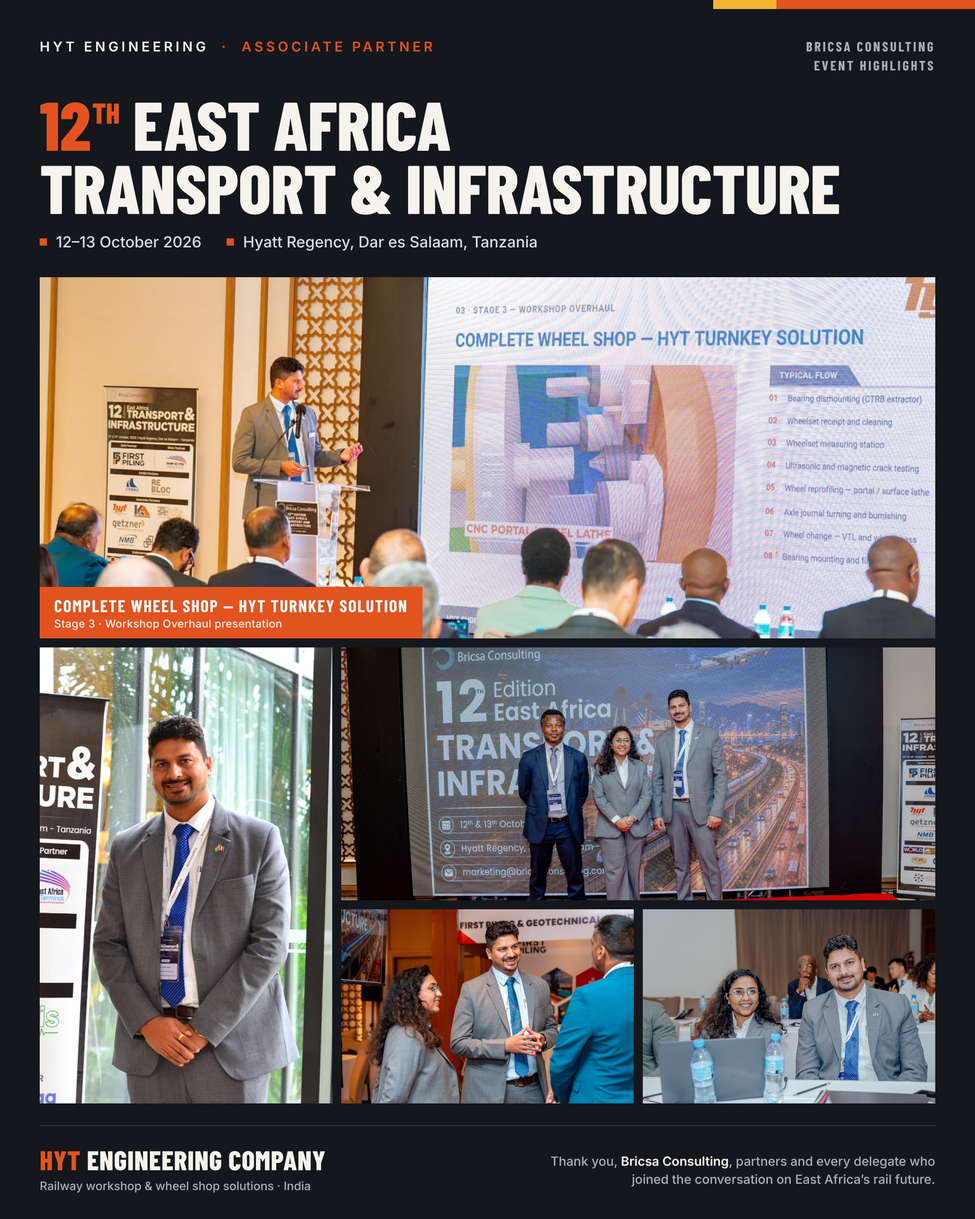
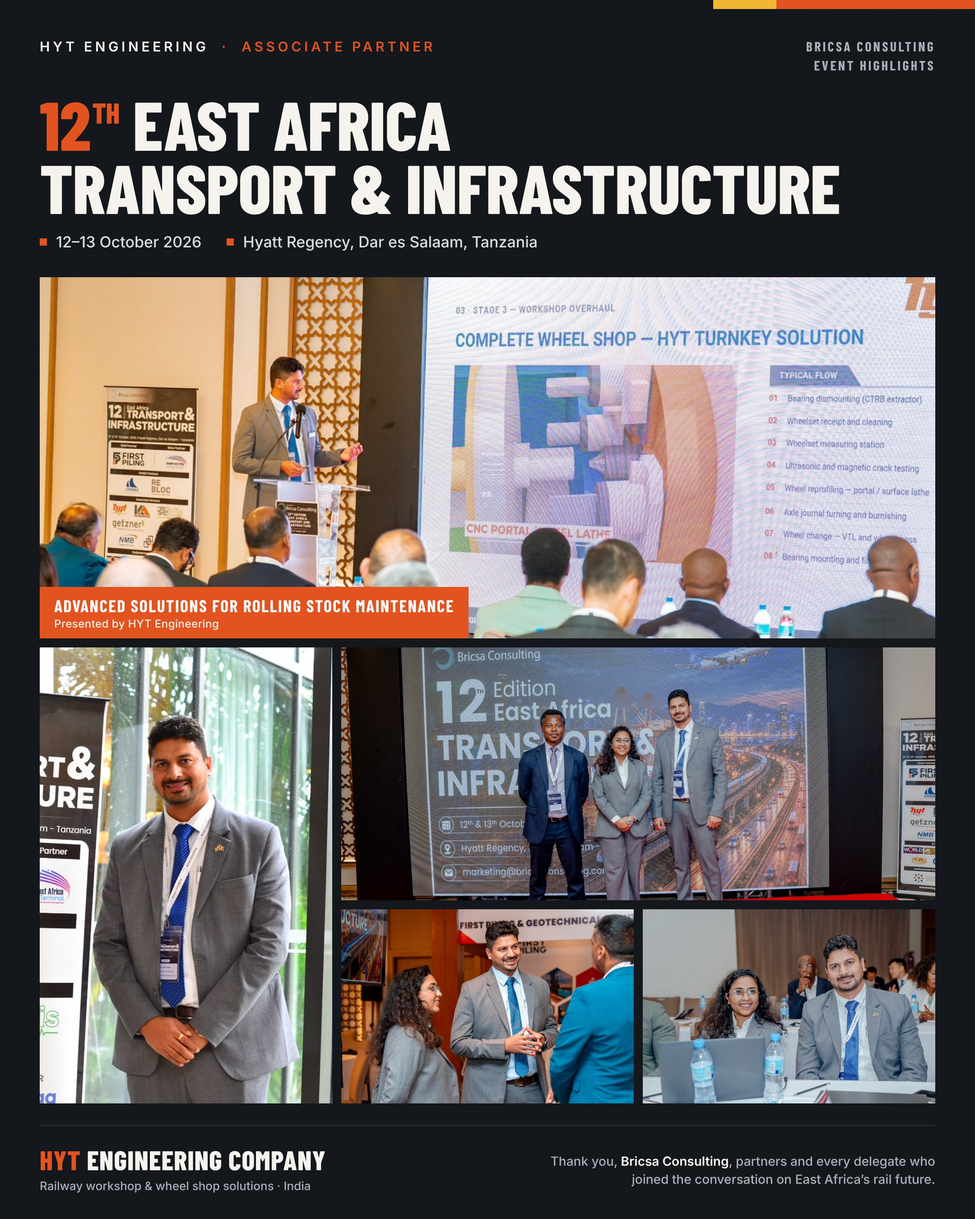
Update poster presentation title to Advanced Solutions for Rolling Stock Maintenance
Claude-Session: https://claude.ai/code/session_01Lnax7G221D2XPgUxBWyxyN

Changed region(s): [[0.062, 0.4667, 0.4963, 0.5289]]

diff --git a/linkedin/east-africa-2026/poster.html b/linkedin/east-africa-2026/poster.html
@@ -47,7 +47,7 @@ h1 sup{font-size:.42em;vertical-align:.95em;margin-left:2px}
     <span><i></i>Hyatt Regency, Dar es Salaam, Tanzania</span>
   </div>
   <div class="grid">
-    <div class="ph a"><img src="photos/1.jpg" style="object-position:50% 40%"><div class="tag">Complete Wheel Shop — HYT Turnkey Solution<small>Stage 3 · Workshop Overhaul presentation</small></div></div>
+    <div class="ph a"><img src="photos/1.jpg" style="object-position:50% 40%"><div class="tag">Advanced Solutions for Rolling Stock Maintenance<small>Presented by HYT Engineering</small></div></div>
     <div class="ph b"><img src="photos/3.jpg" style="object-position:92% 50%"></div>
     <div class="ph c"><img src="photos/4.jpg" style="object-position:50% 38%"></div>
     <div class="ph d"><img src="photos/2.jpg" style="object-position:48% 30%"></div>
